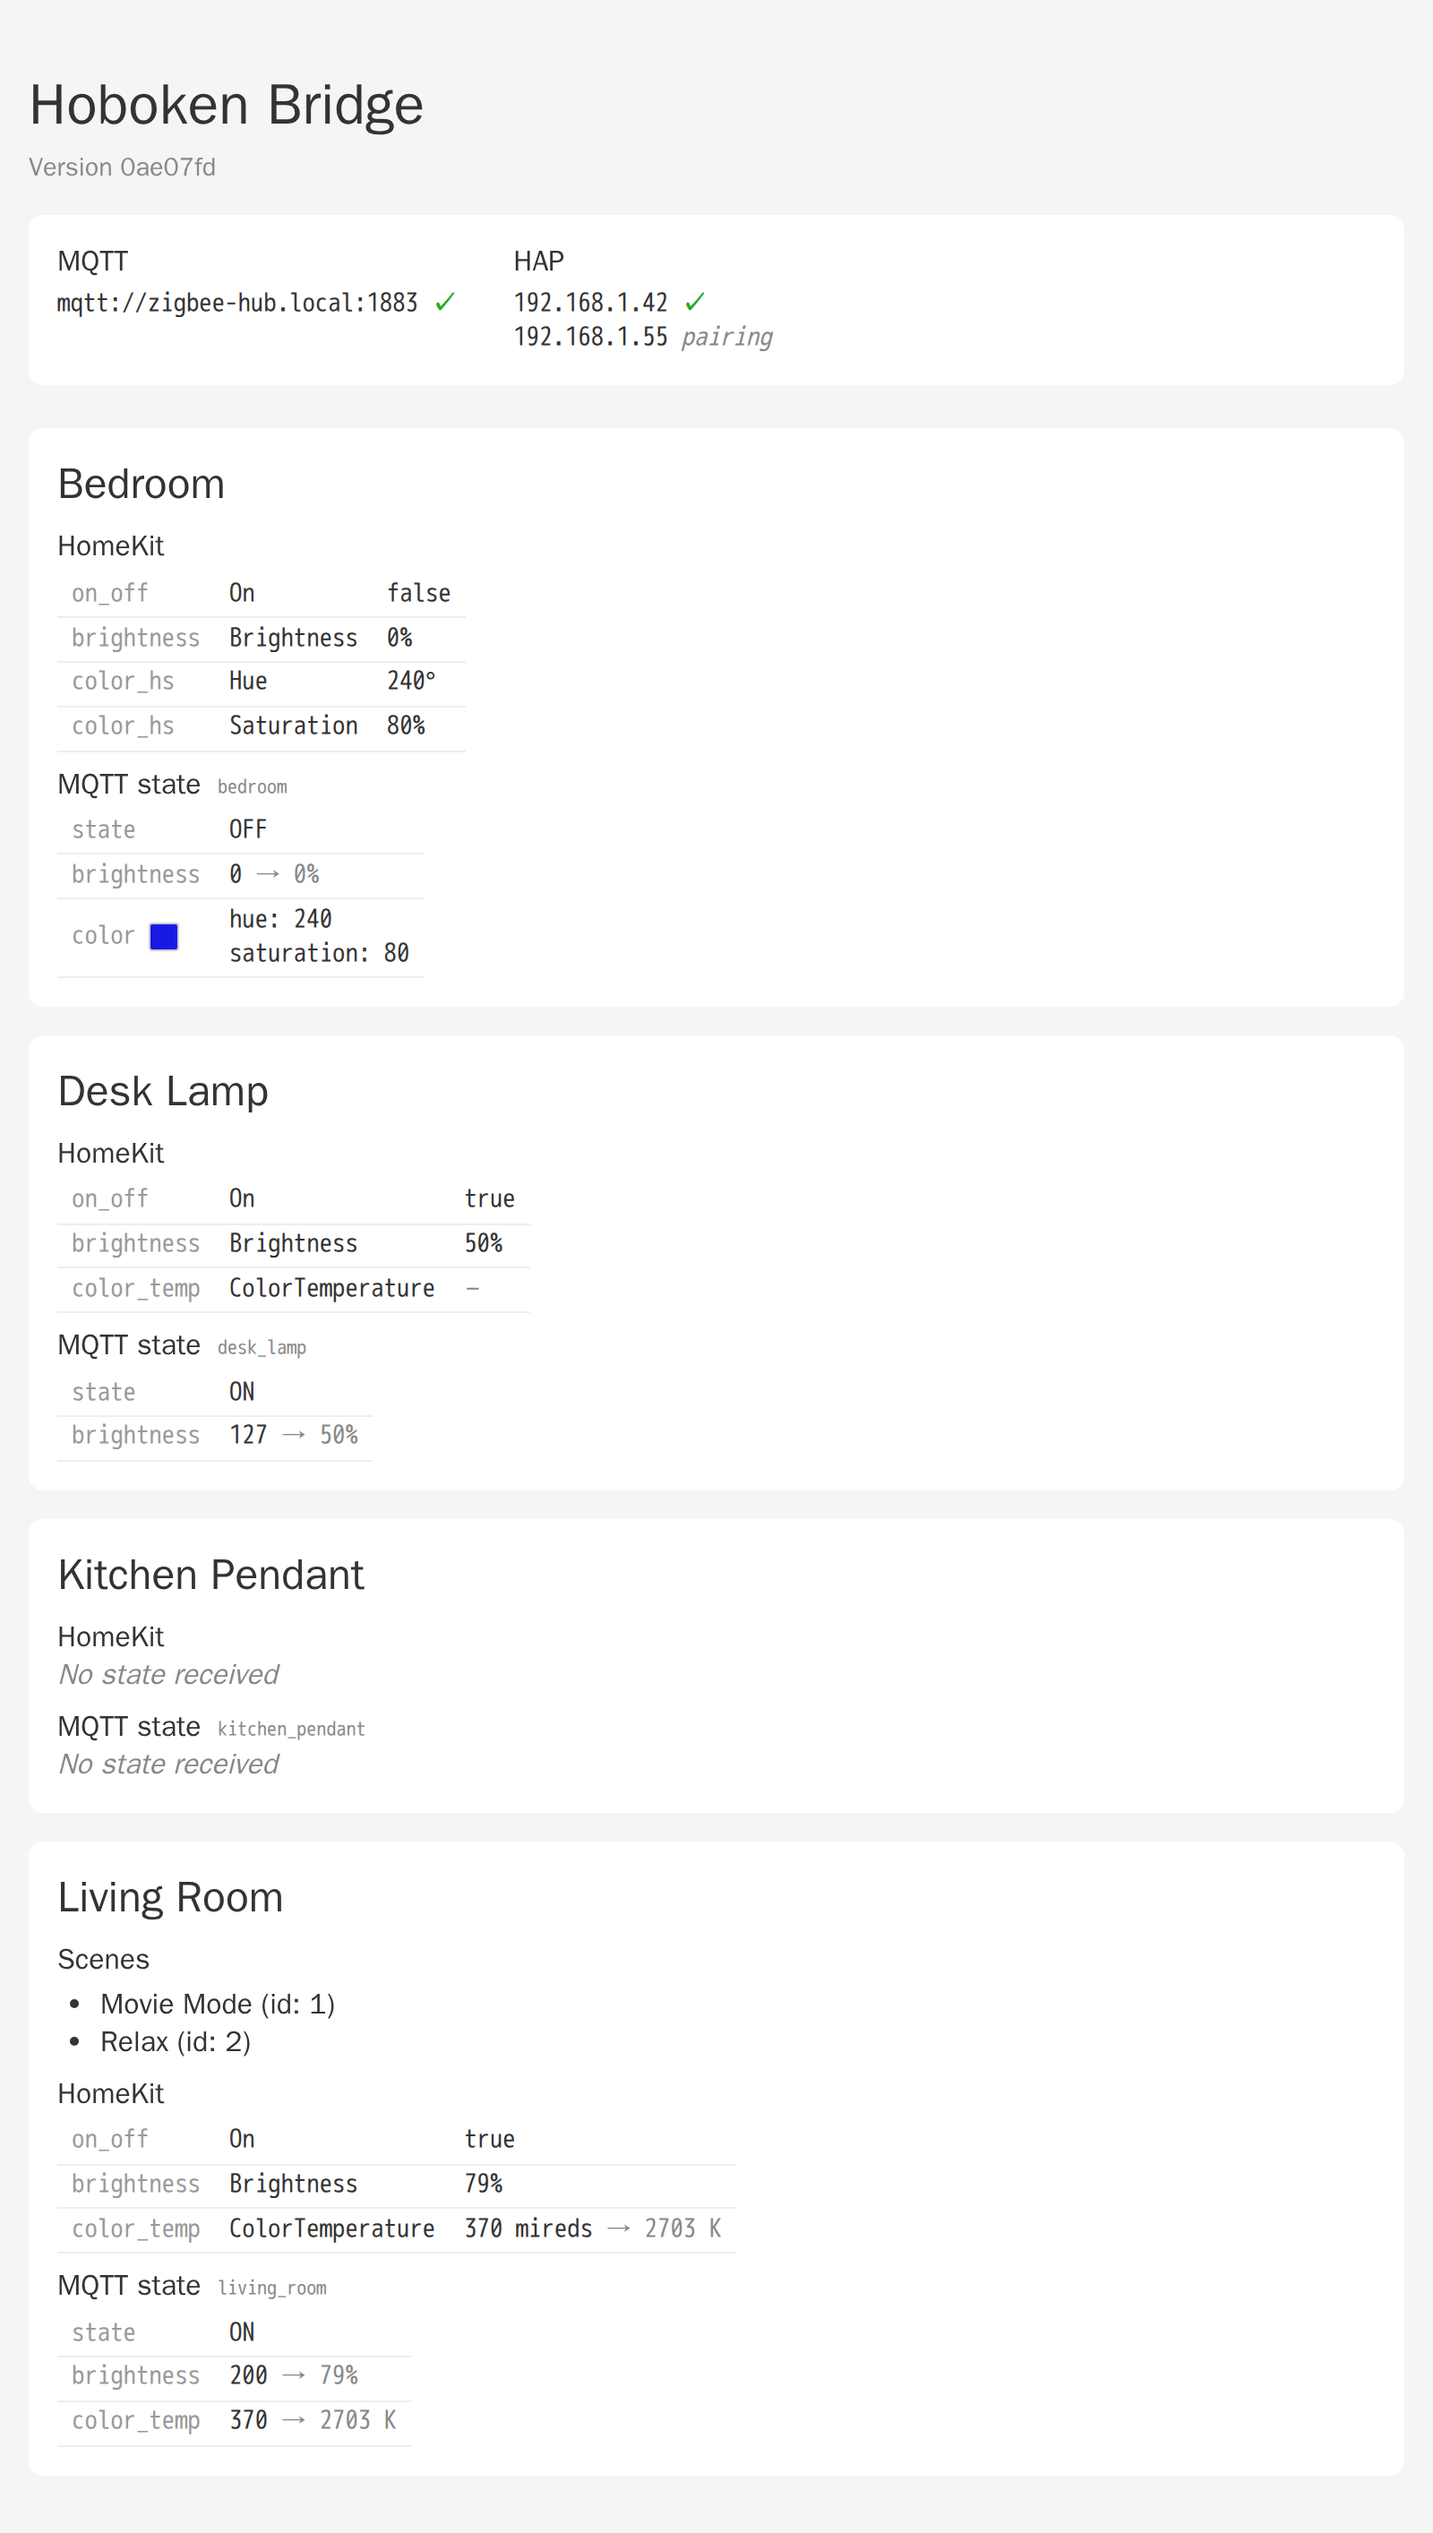
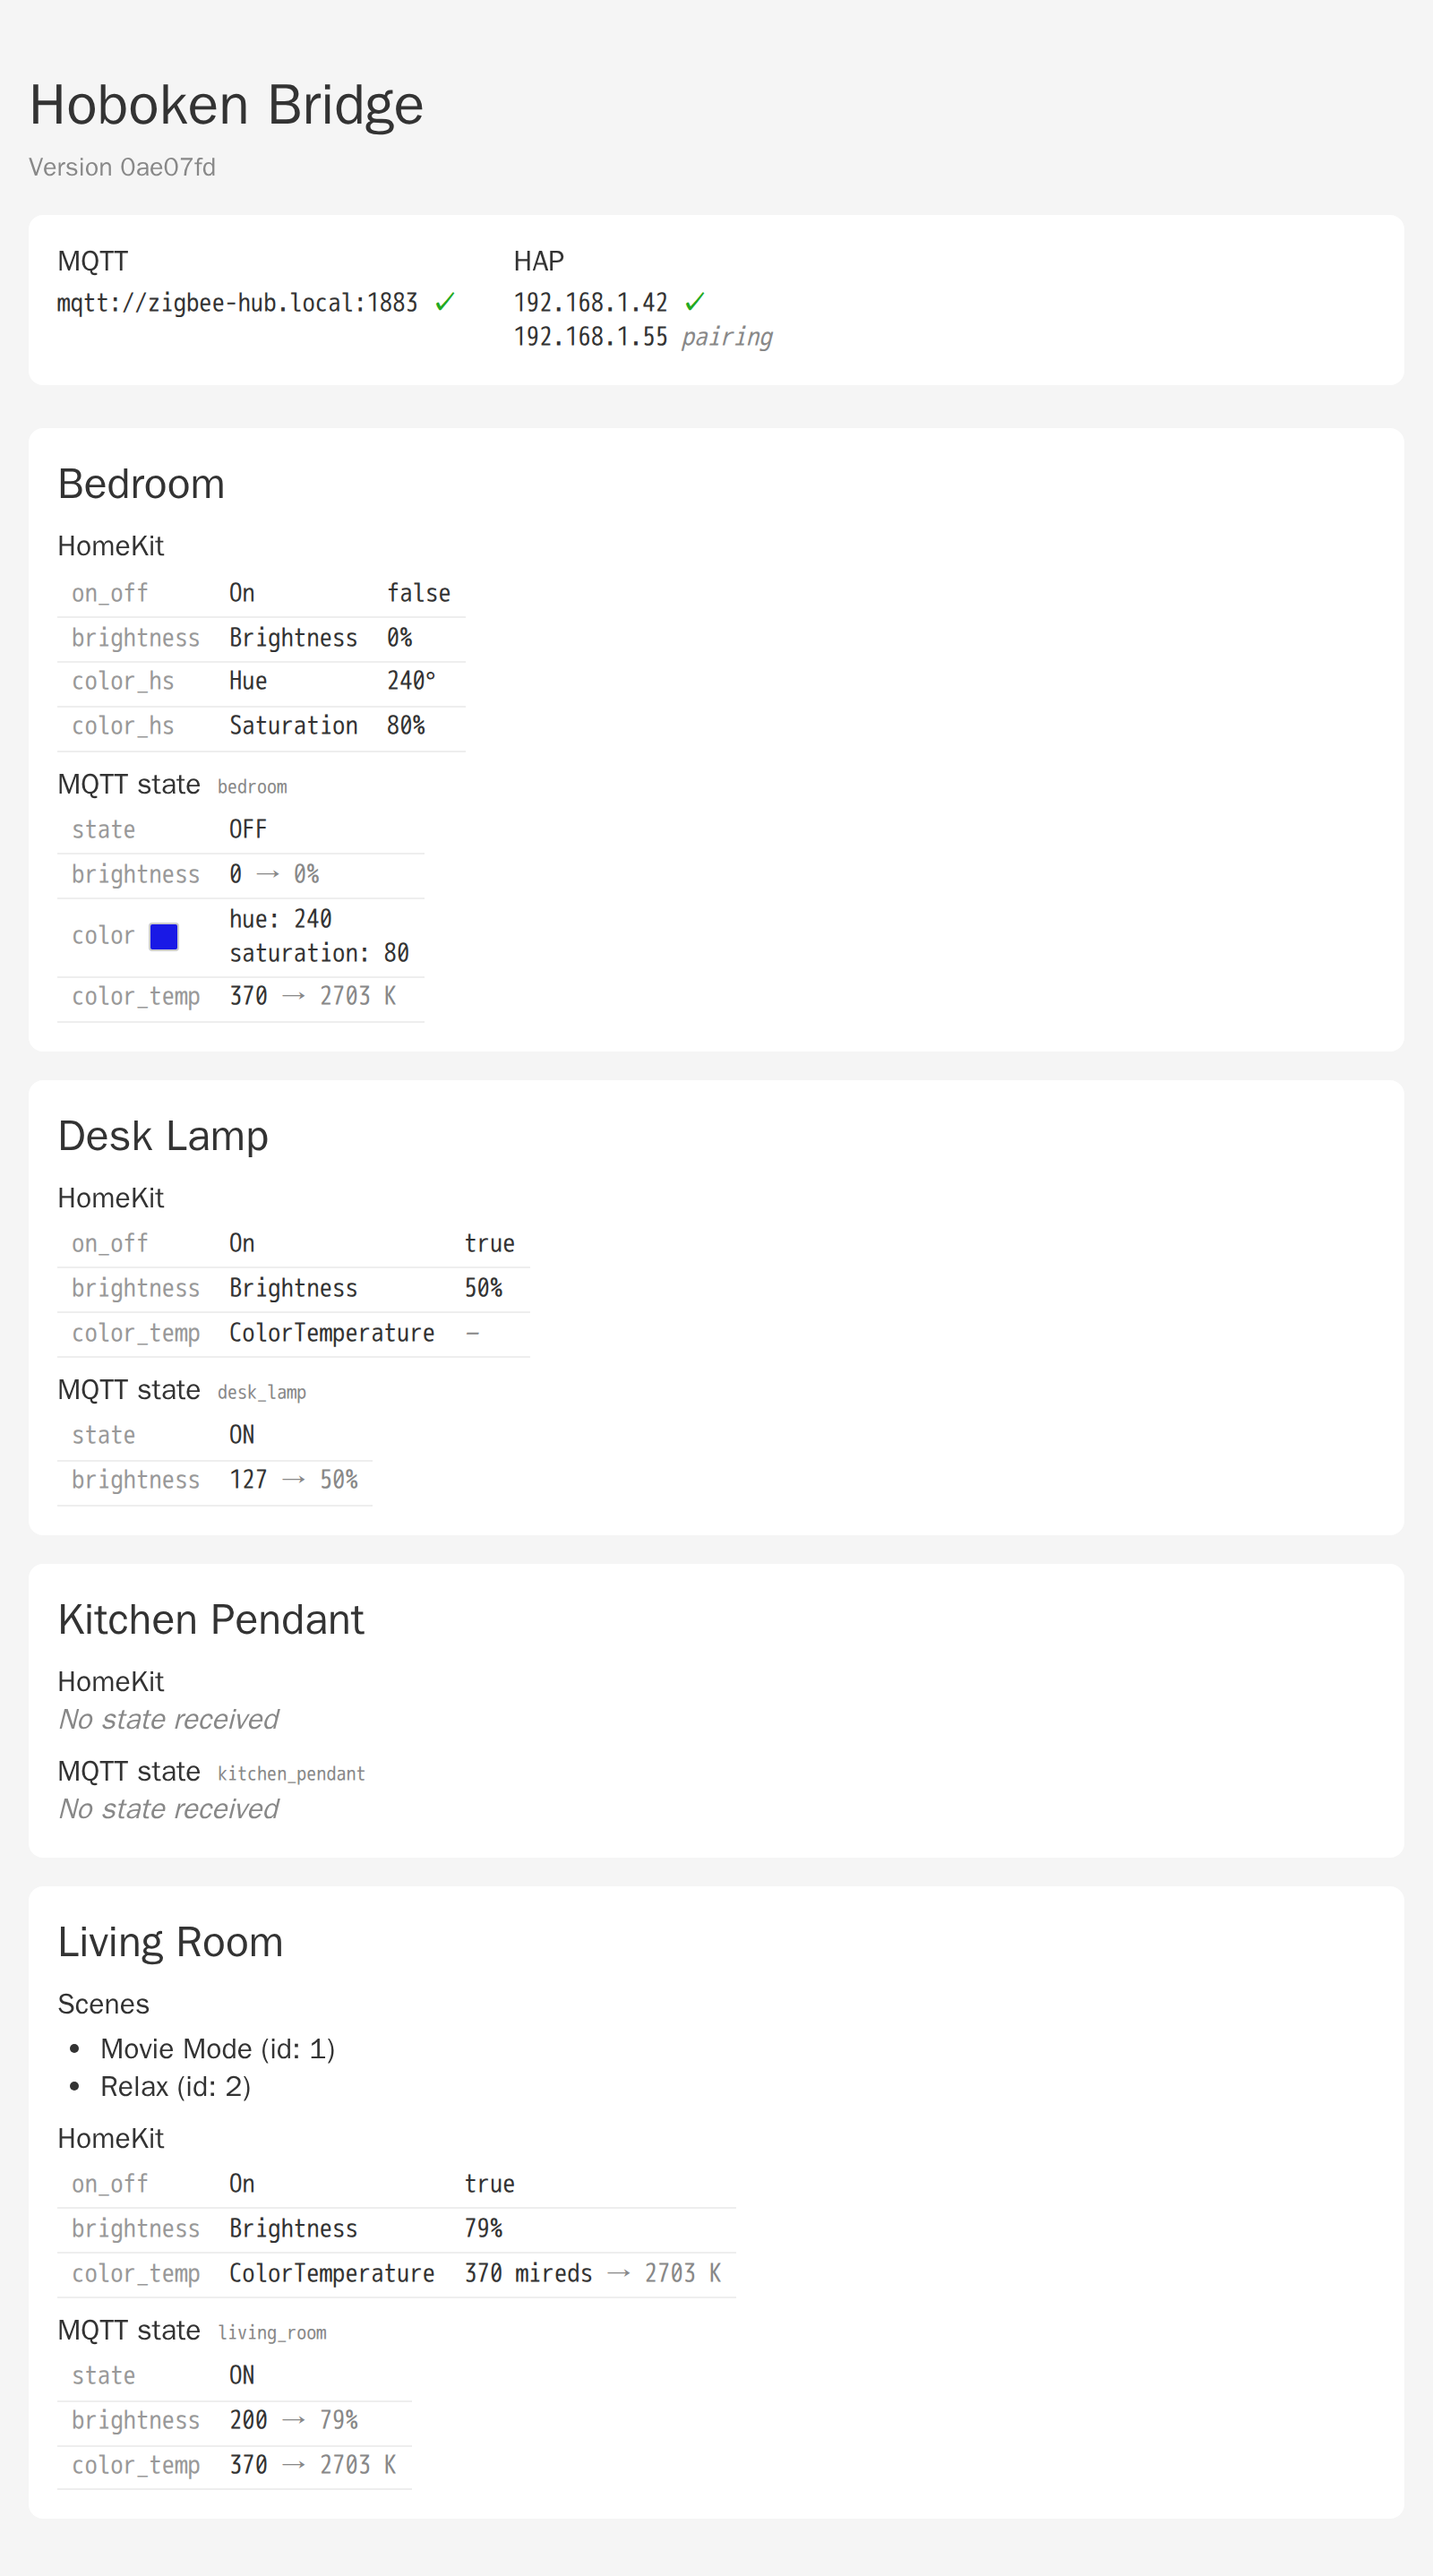
Show color_temp Kelvin hint regardless of configured capability
Z2M reports color_temp in MQTT state for all color-capable devices,
even when Hoboken is configured to use color_hs. Since color_temp and
color_hs are now mutually exclusive, the capabilities guard in
formatHint() suppressed the Kelvin annotation for color_hs devices.

Remove the guard: mireds→Kelvin is a universal unit conversion that is
always meaningful, unlike the brightness hint which depends on the
HomeKit conversion.

diff --git a/test/metrics.test.ts b/test/metrics.test.ts
@@ -1123,6 +1123,30 @@ describe("status page (GET /)", () => {
     expect(body).toContain("\u2192 2703 K");
   });
 
+  test("color_temp annotation shows Kelvin even with color_hs capability", async () => {
+    const register = new Registry();
+    const getStatus: GetStatusFn = () =>
+      makeStatus({
+        devices: [
+          {
+            name: "Lamp",
+            topic: "lamp",
+            capabilities: ["on_off", "color_hs"],
+            state: { color_temp: 370 },
+          },
+        ],
+      });
+    ms = startMetricsServer(0, register, undefined, getStatus);
+
+    await listening(ms.server);
+    const port = addr(ms.server);
+
+    const body = await (
+      await fetch(`http://127.0.0.1:${String(port)}/`)
+    ).text();
+    expect(body).toContain("\u2192 2703 K");
+  });
+
   test("color_hs annotation shows swatch", async () => {
     const register = new Registry();
     const getStatus: GetStatusFn = () =>

diff --git a/src/metrics.ts b/src/metrics.ts
@@ -271,11 +271,7 @@ function formatHint(
       placement: "value",
     };
   }
-  if (
-    key === "color_temp" &&
-    typeof value === "number" &&
-    capabilities.includes("color_temp")
-  ) {
+  if (key === "color_temp" && typeof value === "number") {
     return {
       html: `<span class="hint">\u2192 ${String(Math.round(1_000_000 / value))} K</span>`,
       placement: "value",

diff --git a/demo/fixture.ts b/demo/fixture.ts
@@ -46,6 +46,7 @@ export const fixtureData: StatusData = {
         state: "OFF",
         brightness: 0,
         color: { hue: 240, saturation: 80 },
+        color_temp: 370,
       },
     },
     {
